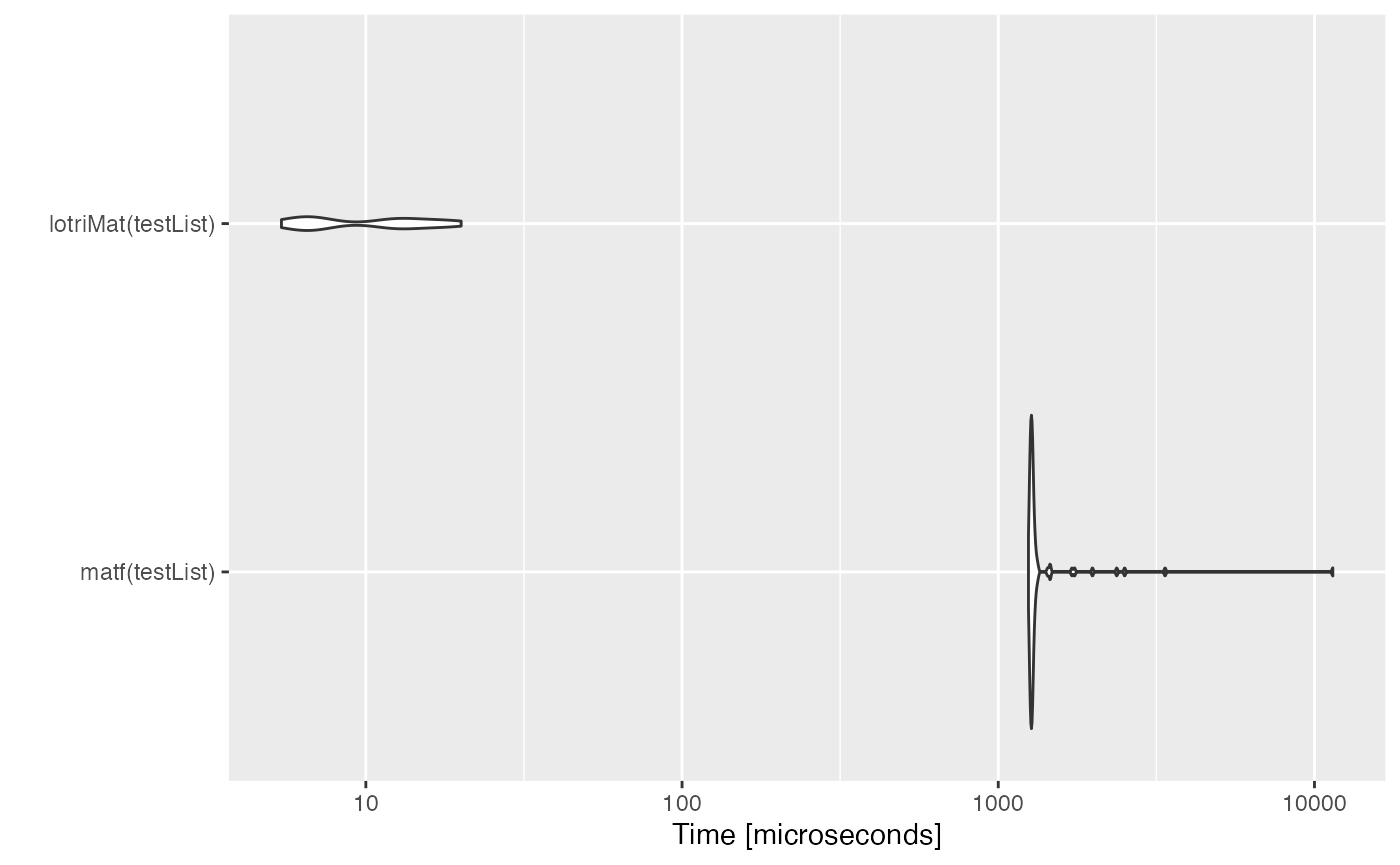
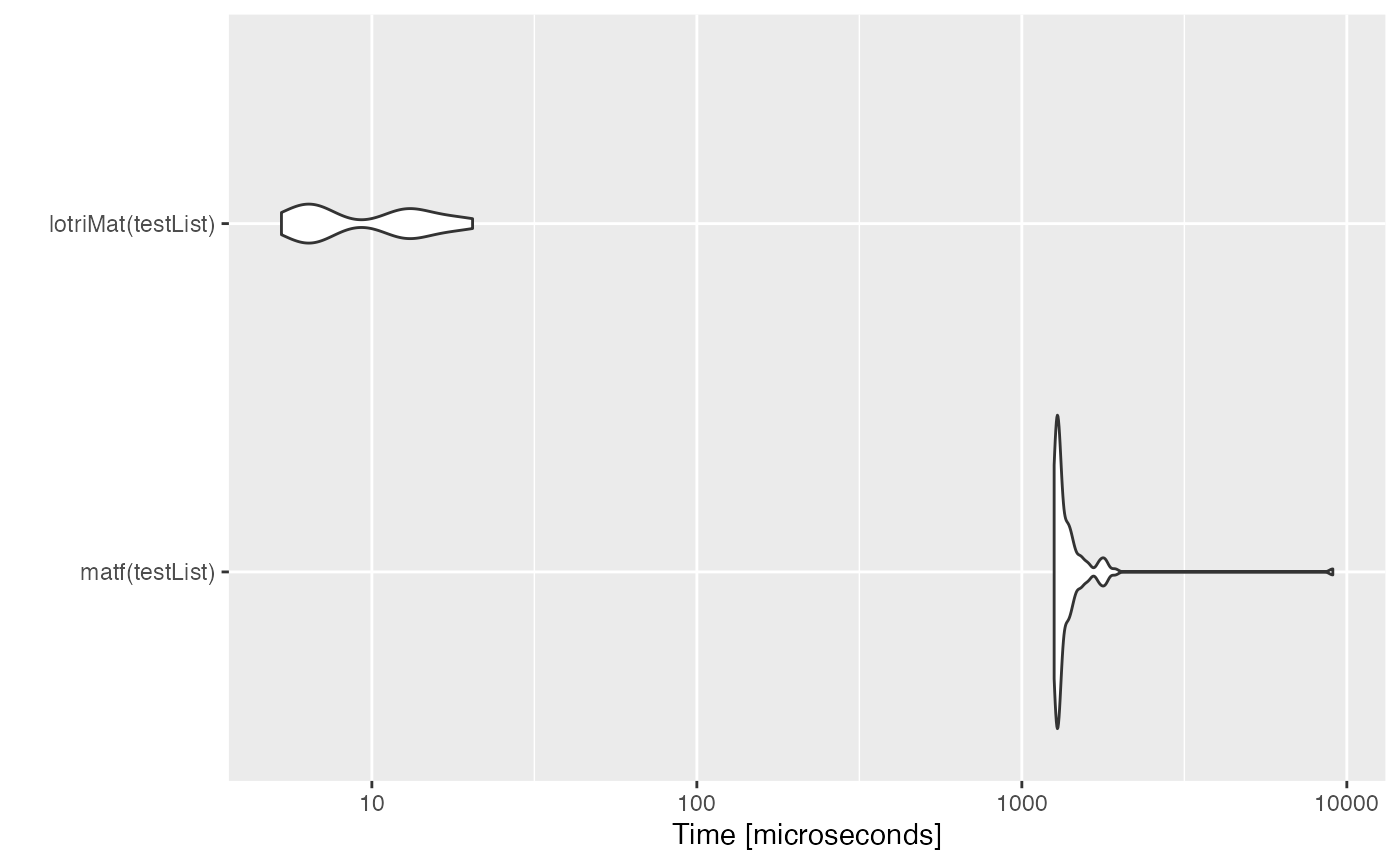
Built site for lotri: 0.4.2@629d660

diff --git a/articles/lotri-motivation.html b/articles/lotri-motivation.html
@@ -229,9 +229,9 @@
 
 <span class="fu"><a href="https://rdrr.io/r/base/print.html" class="external-link">print</a></span><span class="op">(</span><span class="va">mb</span><span class="op">)</span>
 <span class="co">#&gt; Unit: microseconds</span>
-<span class="co">#&gt;                expr      min       lq       mean    median       uq       max</span>
-<span class="co">#&gt;      matf(testList) 1246.035 1266.642 1444.80210 1278.3555 1294.173 11430.550</span>
-<span class="co">#&gt;  lotriMat(testList)    5.409    6.582   10.80462   11.6945   14.096    20.018</span>
+<span class="co">#&gt;                expr      min        lq       mean    median       uq      max</span>
+<span class="co">#&gt;      matf(testList) 1257.137 1284.0010 1449.96122 1302.7865 1399.307 9054.441</span>
+<span class="co">#&gt;  lotriMat(testList)    5.270    6.4665   10.35735    7.2555   13.324   20.413</span>
 <span class="co">#&gt;  neval</span>
 <span class="co">#&gt;    100</span>
 <span class="co">#&gt;    100</span>
